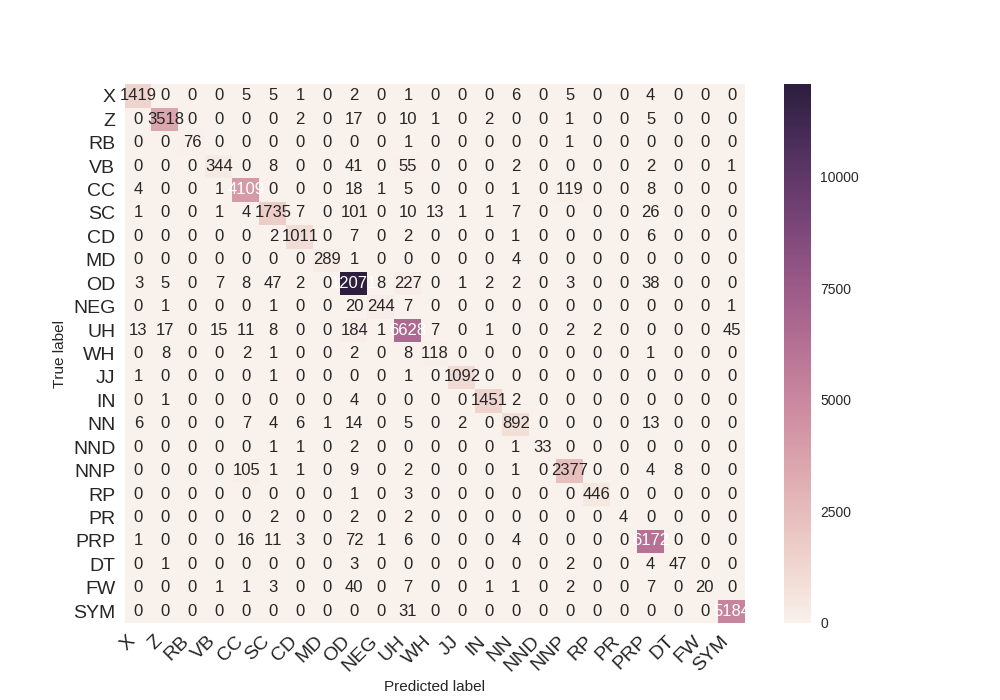
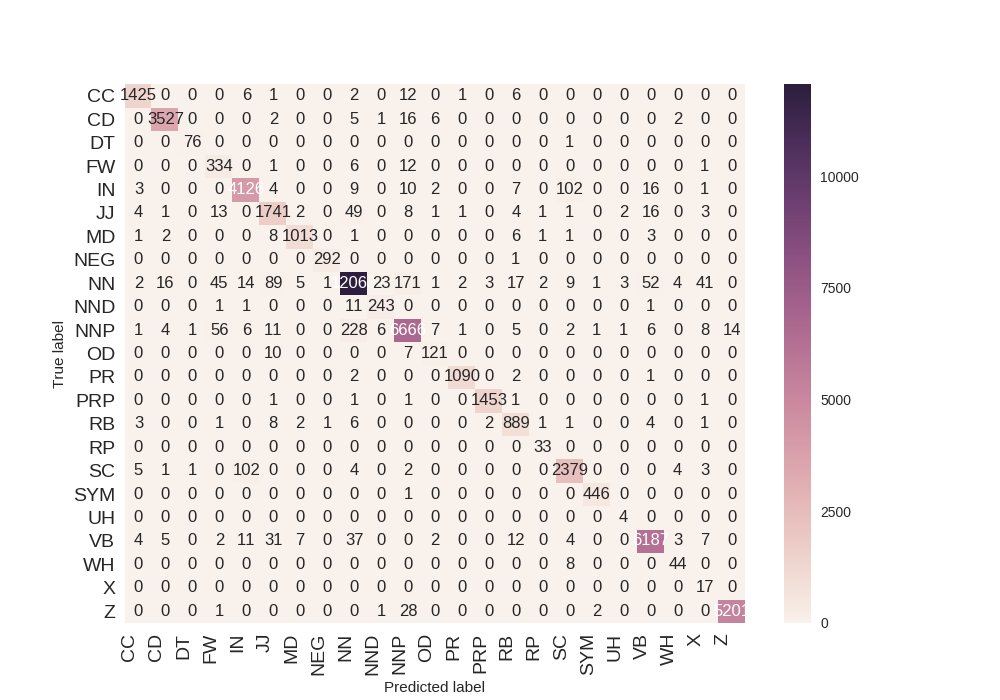
fixes

diff --git a/crf-nltk.py b/crf-nltk.py
@@ -11,6 +11,8 @@ from sklearn_crfsuite import metrics
 import argparse
 from sklearn.metrics import confusion_matrix
 from helper import print_confusion_matrix
+import collections
+import pandas as pd
 
 parser = argparse.ArgumentParser()
 parser.add_argument('--train', dest='train', action='store_true')
@@ -68,12 +70,12 @@ def features(sentence, index):
     'suffix-2': sentence[index][-2:],
     'suffix-3': sentence[index][-3:],
     # neighboring words
-    # 'prev_word': '' if index == 0 else sentence[index - 1],
-    # 'next_word': '' if index == len(sentence) - 1 else sentence[index + 1],
+    'prev_word': '' if index == 0 else sentence[index - 1],
+    'next_word': '' if index == len(sentence) - 1 else sentence[index + 1],
     # word features 2
-    # 'has_hyphen': '-' in sentence[index],
-    # 'is_numeric': sentence[index].isdigit(),
-    # 'capitals_inside': sentence[index][1:].lower() != sentence[index][1:]
+    'has_hyphen': '-' in sentence[index],
+    'is_numeric': sentence[index].isdigit(),
+    'capitals_inside': sentence[index][1:].lower() != sentence[index][1:]
   }
 
 def transform_to_dataset(tagged_sentences):
@@ -113,23 +115,48 @@ else:
     sentence_features = [features(sentence, index) for index in range(len(sentence))]
     return list(zip(sentence, model.predict([sentence_features])[0]))
 
-  # print(pos_tag(sentence))
+  analysis = collections.defaultdict(lambda: collections.defaultdict(int))
+  tagss = []
+  tagss_pred = []
+  for elem in test_sentences:
+    sentence = []
+    tags = []
+    for w in elem:
+      sentence.append(w[0])
+      tags.append(w[1])
+    #print(sentence)
+    preds = pos_tag(sentence)
+    tags_pred = [x[1] for x in preds]
+    check = False
+    for a, b in zip(tags, tags_pred):
+      analysis[a][b] += 1
+      if a != b:
+        check = True
+    tagss.append(tags)
+    tagss_pred.append(tags_pred)
+    if check:
+      pr_str = ""
+      for a, b, c in zip(sentence, tags, tags_pred):
+        pr_str += a + "/" + b + "/" + c + " "
+      #print(pr_str[:-1])
 
-  # show statistics
-  y_pred = model.predict(X_test)
   labels = list(model.classes_)
   sorted_labels = sorted(
     labels,
     key=lambda name: (name[1:], name[0])
   )
+  print_confusion_matrix(analysis, sorted_labels)
+
+  # show statistics
+  y_pred = model.predict(X_test)
   a = metrics.flat_classification_report(
     y_test, y_pred, labels=sorted_labels, digits=3
   )
-  print(a)
+  # print(a)
 
-  # confusion matrix
-  y_test_flat = [item for sublist in y_test for item in sublist]
-  y_pred_flat = [item for sublist in y_pred for item in sublist]
-  cm = confusion_matrix(y_test_flat, y_pred_flat)
-  #print(sorted_labels)
-  print_confusion_matrix(cm, sorted_labels)
+  # # confusion matrix
+  # y_test_flat = [item for sublist in y_test for item in sublist]
+  # y_pred_flat = [item for sublist in y_pred for item in sublist]
+  # cm = confusion_matrix(y_test_flat, y_pred_flat)
+  # #print(sorted_labels)
+  # print_confusion_matrix(cm, sorted_labels)

diff --git a/seq2seq.py b/seq2seq.py
@@ -17,6 +17,8 @@ from seq2seq.util.checkpoint import Checkpoint
 
 from sklearn.metrics import precision_recall_fscore_support
 import numpy as np
+import collections
+from helper import print_confusion_matrix
 
 try:
     raw_input          # Python 2
@@ -60,6 +62,62 @@ if opt.load_checkpoint is not None:
     seq2seq = checkpoint.model
     input_vocab = checkpoint.input_vocab
     output_vocab = checkpoint.output_vocab
+
+    # test
+    def read_data(path):
+      tokens = []
+      with open(path, "r") as f:
+        elem = []
+        for line in f:
+          ar = line.split("\t")
+          if len(ar) == 1:
+            tokens.append(elem)
+            elem = []
+          else:
+            tok = ar[0]
+            lab = ar[1].replace("\n", "").upper()
+            elem.append((tok, lab))
+      # ind = np.arange(0, len(tokens))
+      # random.shuffle(ind)
+      # shuffled_index = np.array([val for val in ind])
+      # np.savetxt('shuffled_index.txt', shuffled_index, fmt='%d')
+      shuffled_index = np.loadtxt('shuffled_index.txt', dtype=int)
+      tokens = np.array(tokens)[shuffled_index].tolist()
+      return tokens
+
+    tagged_sentences = read_data("./dataset/Indonesian_Manually_Tagged_Corpus.tsv")
+
+    # Split the dataset for training and testing
+    cutoff = int(.80 * len(tagged_sentences))
+    training_sentences = tagged_sentences[:cutoff]
+    test_sentences = tagged_sentences[cutoff:]
+
+    predictor = Predictor(seq2seq, input_vocab, output_vocab)
+    analysis = collections.defaultdict(lambda: collections.defaultdict(int))
+    tagss = []
+    tagss_pred = []
+    for elem in test_sentences:
+      sentence = []
+      tags = []
+      for w in elem:
+        sentence.append(w[0])
+        tags.append(w[1])
+      preds = predictor.predict(sentence)
+      tags_pred = [x for x in preds[:-1]]
+      check = False
+      for a, b in zip(tags, tags_pred):
+        analysis[a][b] += 1
+        if a != b:
+          check = True
+      tagss.append(tags)
+      tagss_pred.append(tags_pred)
+      if check:
+        pr_str = ""
+        for a, b, c in zip(sentence, tags, tags_pred):
+          pr_str += a + "/" + b + "/" + c + " "
+        #print(pr_str[:-1])
+    print_confusion_matrix(analysis, output_vocab)
+
 else:
     # Prepare dataset
     src = SourceField()
@@ -130,8 +188,6 @@ else:
                       optimizer=optimizer,
                       teacher_forcing_ratio=0.5,
                       resume=opt.resume)
-
-# predictor = Predictor(seq2seq, input_vocab, output_vocab)
 
 # while True:
 #     seq_str = raw_input("Type in a source sequence:")

diff --git a/helper.py b/helper.py
@@ -7,9 +7,7 @@ def print_confusion_matrix(confusion_matrix, class_names, figsize=(10, 7), fonts
 
   Arguments
   ---------
-  confusion_matrix: numpy.ndarray
-      The numpy.ndarray object returned from a call to sklearn.metrics.confusion_matrix.
-      Similarly constructed ndarrays can also be used.
+  confusion_matrix: dictionary
   class_names: list
       An ordered list of class names, in the order they index the given confusion matrix.
   figsize: tuple
@@ -24,15 +22,16 @@ def print_confusion_matrix(confusion_matrix, class_names, figsize=(10, 7), fonts
       The resulting confusion matrix figure
   """
   df_cm = pd.DataFrame(
-    confusion_matrix, index=class_names, columns=class_names,
+    confusion_matrix#, index=class_names, columns=class_names,
   )
+  df_cm = df_cm.fillna(0).astype(int)
   fig = plt.figure(figsize=figsize)
   try:
     heatmap = sns.heatmap(df_cm, annot=True, fmt="d")
   except ValueError:
     raise ValueError("Confusion matrix values must be integers.")
   heatmap.yaxis.set_ticklabels(heatmap.yaxis.get_ticklabels(), rotation=0, ha='right', fontsize=fontsize)
-  heatmap.xaxis.set_ticklabels(heatmap.xaxis.get_ticklabels(), rotation=45, ha='right', fontsize=fontsize)
+  heatmap.xaxis.set_ticklabels(heatmap.xaxis.get_ticklabels(), rotation=90, ha='right', fontsize=fontsize)
   plt.ylabel('True label')
   plt.xlabel('Predicted label')
   plt.savefig('confusion_matrix.png')

diff --git a/evaluate.py b/evaluate.py
@@ -82,11 +82,13 @@ for key in totals:
   f1 = 2 * (precision * recall) / (precision + recall)
   f1_tot += f1
   # print(key + " precision: " + str(precision) + " recall: " + str(recall) + " f1: " + str(f1))
-  print(key + " & " + str(precision) + " & " + str(recall) + " & " + str(f1) + " \\\\")
+  print(key + " & " + str("{0:.3f}".format(round(precision,2))) + " & " + str("{0:.3f}".format(round(recall,2)))
+        + " & " + str("{0:.3f}".format(round(f1,2))) + " \\\\")
 # print("Total precision: " + str(prec_tot / len(totals)) + " recall: " + str(rec_tot / len(totals)) +
 #       " f1: " + str(f1_tot/ len(totals)))
-print("Total & " + str(prec_tot / len(totals)) + " & " + str(rec_tot / len(totals)) +
-      " & " + str(f1_tot/ len(totals)) + " \\\\")
+print("Total & " + str("{0:.3f}".format(round(prec_tot / len(totals),2))) + " & "
+      + str("{0:.3f}".format(round(rec_tot / len(totals),2))) +
+      " & " + str("{0:.3f}".format(round(f1_tot/ len(totals),2))) + " \\\\")
 # total_loss, log_msg, _ = SupervisedTrainer.print_eval(losses, metrics, 0)
 #
 # print(log_msg)
